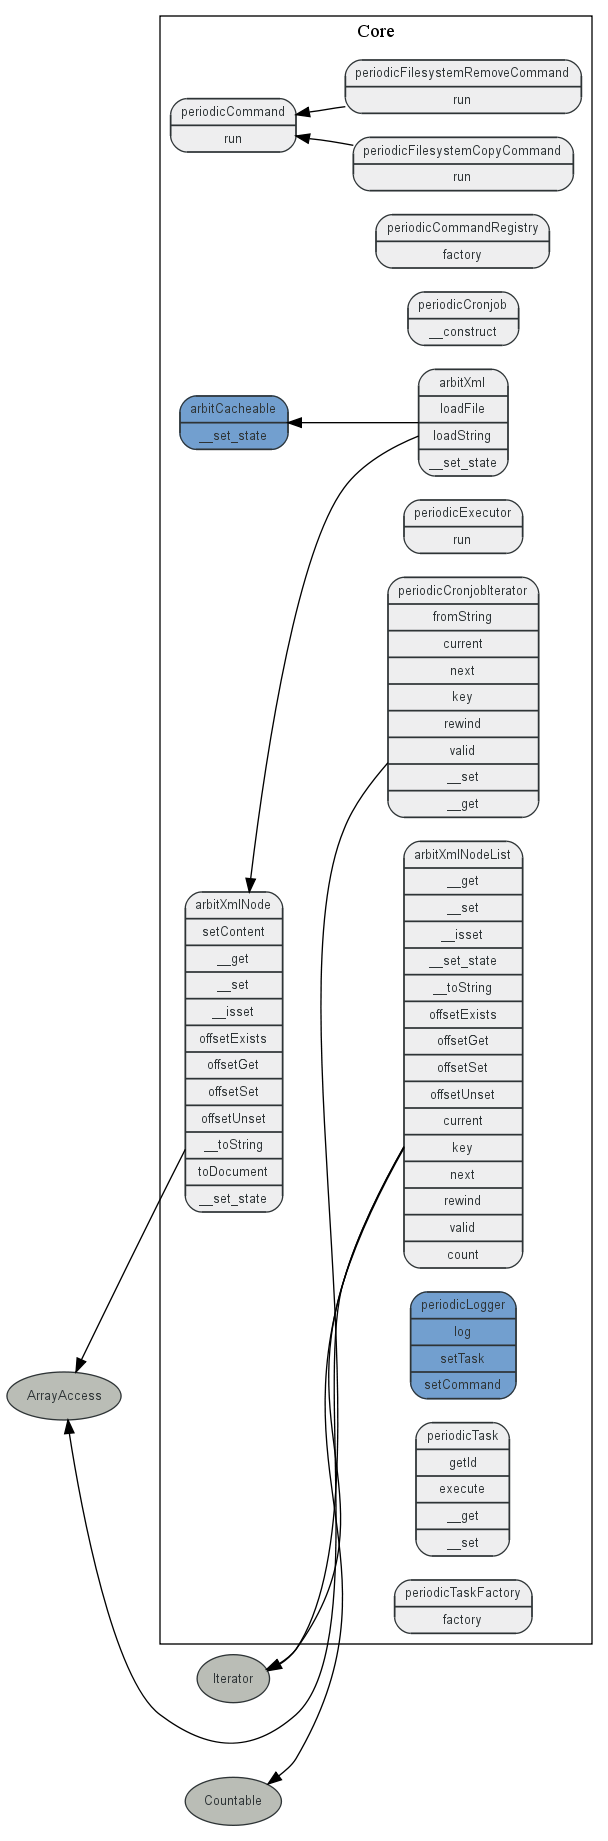
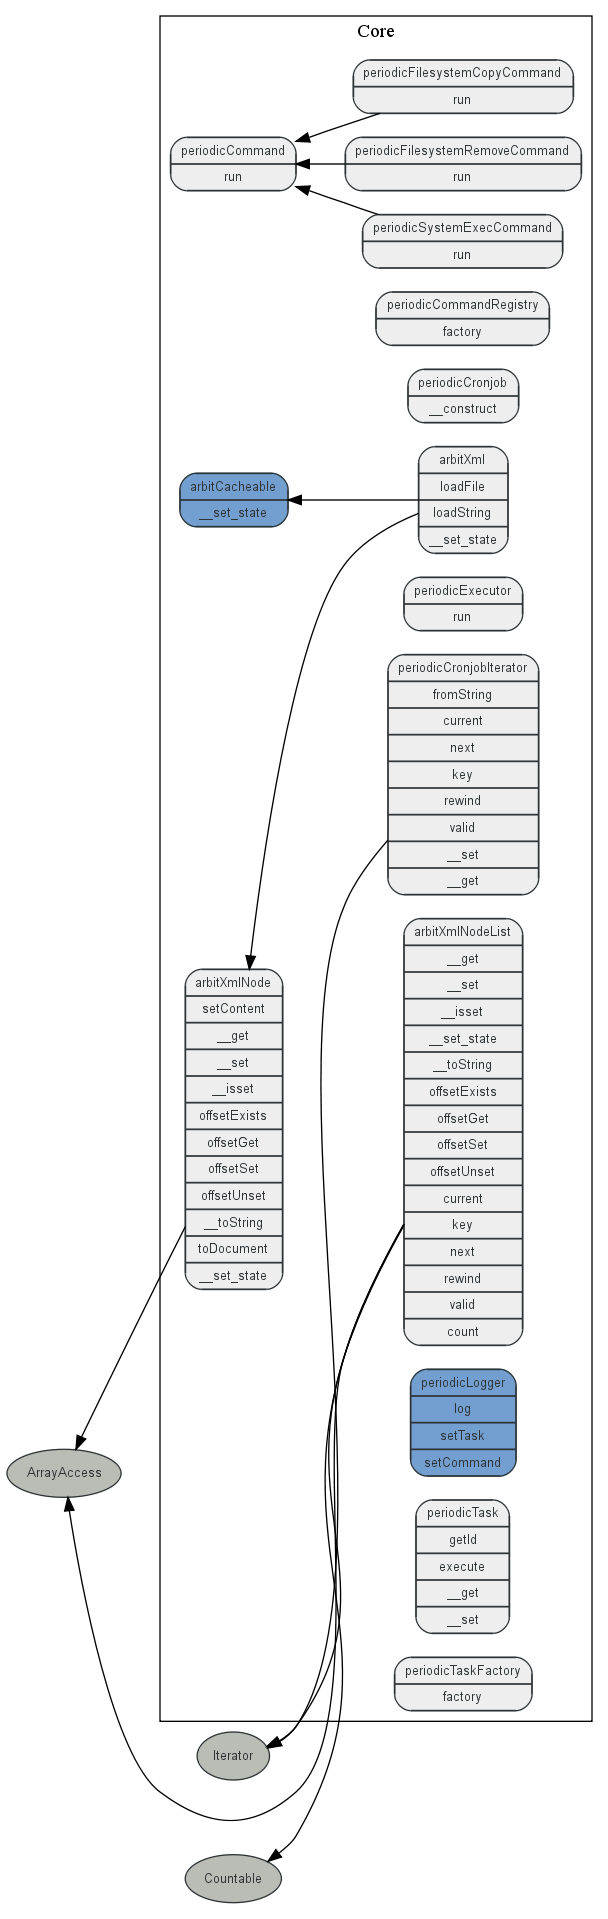
- Implemented: Basic system exec command

diff --git a/src/classes/command/system/exec.php b/src/classes/command/system/exec.php
@@ -1,0 +1,119 @@
+<?php
+/**
+ * Command
+ *
+ * This file is part of periodic
+ *
+ * periodic is free software; you can redistribute it and/or modify it under
+ * the terms of the GNU Lesser General Public License as published by the Free
+ * Software Foundation; version 3 of the License.
+ *
+ * periodic is distributed in the hope that it will be useful, but WITHOUT ANY
+ * WARRANTY; without even the implied warranty of MERCHANTABILITY or FITNESS
+ * FOR A PARTICULAR PURPOSE.  See the GNU Lesser General Public License for
+ * more details.
+ *
+ * You should have received a copy of the GNU Lesser General Public License
+ * along with periodic; if not, write to the Free Software Foundation, Inc., 51
+ * Franklin St, Fifth Floor, Boston, MA  02110-1301  USA
+ *
+ * @package Core
+ * @version $Revision: 999 $
+ * @license http://www.gnu.org/licenses/lgpl-3.0.txt LGPL
+ */
+
+/**
+ * Command
+ *
+ * Command to execute system commands
+ */
+class periodicSystemExecCommand extends periodicCommand
+{
+    /**
+     * Run command
+     *
+     * Execute the actual bits.
+     *
+     * Should return one of the status constant values, defined as class
+     * constants in periodicCommand.
+     * 
+     * @return int
+     */
+    public function run()
+    {
+        $command = (string) $this->configuration;
+        if ( empty( $command ) )
+        {
+            $this->logger->log( 'No command provided for execution.', periodicLogger::ERROR );
+            return periodicExecutor::ERROR;
+        }
+
+        // Check for availability of PHP command execution functions
+        if ( !function_exists( 'proc_open' ) )
+        {
+            $this->logger->log( 'Required PHP functions proc_* not available.', periodicLogger::ERROR );
+            return periodicExecutor::ERROR;
+        }
+
+        $failOnError = true;
+        if ( isset( $this->configuration['failOnError'] ) )
+        {
+            $failOnError = !( (string) $this->configuration['failOnError'] === 'false' );
+        }
+
+        return $this->execute( $command, $failOnError );
+    }
+
+    /**
+     * Execute command
+     *
+     * Execute given shell command. All error output from the shell command
+     * will be added as warnings to the logger.
+     *
+     * If the command returns with an non-zero exit code and $failOnError is
+     * set to true the command will return periodicExecutor::ERROR - otherwise
+     * it will always return with periodicExecutor::SUCCESS.
+     * 
+     * @param string $command 
+     * @param bool $failOnError
+     * @return int
+     */
+    protected function execute( $command, $failOnError = true )
+    {
+        $descriptors = array(
+            0 => array( 'pipe', 'r' ), // STDIN
+            1 => array( 'pipe', 'w' ), // STDOUT
+            2 => array( 'pipe', 'w' ), // STDERR
+        );
+
+        $proc = proc_open( $command, $descriptors, $pipes );
+        if ( !is_resource( $proc ) )
+        {
+            $this->logger->log( 'Could not start processs.', periodicLogger::ERROR );
+            return periodicExecutor::ERROR;
+        }
+
+        // Add command output as information to log
+        $output = trim( stream_get_contents( $pipes[1] ) );
+        if ( !empty( $output ) )
+        {
+            $this->logger->log( $output );
+        }
+        fclose( $pipes[1] );
+
+        // Add command error output as warnings to log
+        $output = trim( stream_get_contents( $pipes[2] ) );
+        if ( !empty( $output ) )
+        {
+            $this->logger->log( $output, periodicLogger::WARNING );
+        }
+        fclose( $pipes[2] );
+
+        // Receive process return values
+        $return = proc_close( $proc );
+        $this->logger->log( "Command exited with return value $return" );
+
+        return ( $return && $failOnError ) ? periodicExecutor::ERROR : periodicExecutor::SUCCESS;
+    }
+}
+

diff --git a/tests/command/system_exec.php b/tests/command/system_exec.php
@@ -1,0 +1,123 @@
+<?php
+/**
+ * This file is part of Periodic.
+ *
+ * Periodic is free software; you can redistribute it and/or modify it under
+ * the terms of the GNU Lesser General Public License as published by the
+ * Free Software Foundation; version 3 of the License.
+ *
+ * Periodic is distributed in the hope that it will be useful, but WITHOUT
+ * ANY WARRANTY; without even the implied warranty of MERCHANTABILITY or
+ * FITNESS FOR A PARTICULAR PURPOSE.  See the GNU Lesser General Public
+ * License for * more details.
+ *
+ * You should have received a copy of the GNU Lesser General Public License 
+ * along with Periodic; if not, write to the Free Software Foundation, Inc., 51
+ * Franklin St, Fifth Floor, Boston, MA  02110-1301  USA
+ *
+ * @package Periodic
+ * @subpackage Command
+ * @version $Revision: 1006 $
+ * @license http://www.gnu.org/licenses/lgpl-3.0.txt LGPLv3
+ */
+
+require_once 'tests/helper/logger.php';
+
+class periodicCommandSystemExecTests extends periodicBaseTest
+{
+    public static function suite()
+    {
+        return new PHPUnit_Framework_TestSuite( __CLASS__ );
+    }
+
+    public function testEmptyConfiguation()
+    {
+        $cmd = new periodicSystemExecCommand(
+            arbitXml::loadString( '<?xml version="1.0" ?>
+                <command/>
+            ' ),
+            $logger = new periodicTestLogger()
+        );
+
+        $this->assertSame(
+            periodicExecutor::ERROR,
+            $cmd->run()
+        );
+
+        $this->assertEquals(
+            array(
+                '(E) No command provided for execution.',
+            ),
+            $logger->logMessages
+        );
+    }
+
+    public function testSuccessfullCommandExecution()
+    {
+        $cmd = new periodicSystemExecCommand(
+            arbitXml::loadString( '<?xml version="1.0" ?>
+                <command>echo "Hello world"</command>
+            ' ),
+            $logger = new periodicTestLogger()
+        );
+
+        $this->assertSame(
+            periodicExecutor::SUCCESS,
+            $cmd->run()
+        );
+
+        $this->assertEquals(
+            array(
+                '(i) Hello world',
+                '(i) Command exited with return value 0',
+            ),
+            $logger->logMessages
+        );
+    }
+
+    public function testFailOnUnknownCommand()
+    {
+        $cmd = new periodicSystemExecCommand(
+            arbitXml::loadString( '<?xml version="1.0" ?>
+                <command>some_command_not_available</command>
+            ' ),
+            $logger = new periodicTestLogger()
+        );
+
+        $this->assertSame(
+            periodicExecutor::ERROR,
+            $cmd->run()
+        );
+
+        $this->assertEquals(
+            array(
+                '(W) sh: some_command_not_available: command not found',
+                '(i) Command exited with return value 127',
+            ),
+            $logger->logMessages
+        );
+    }
+
+    public function testNoFailOnUnknownCommand()
+    {
+        $cmd = new periodicSystemExecCommand(
+            arbitXml::loadString( '<?xml version="1.0" ?>
+                <command failOnError="false">some_command_not_available</command>
+            ' ),
+            $logger = new periodicTestLogger()
+        );
+
+        $this->assertSame(
+            periodicExecutor::SUCCESS,
+            $cmd->run()
+        );
+
+        $this->assertEquals(
+            array(
+                '(W) sh: some_command_not_available: command not found',
+                '(i) Command exited with return value 127',
+            ),
+            $logger->logMessages
+        );
+    }
+}

diff --git a/src/classes/command_registry.php b/src/classes/command_registry.php
@@ -39,10 +39,10 @@ final class periodicCommandRegistry
     protected static $commands = array(
         // Standard file system operations
         'fs.copy'     => 'periodicFilesystemCopyCommand',
-        'fs.move'     => 'periodicFilesystemMoveCommand',
+//        'fs.move'     => 'periodicFilesystemMoveCommand',
         'fs.delete'   => 'periodicFilesystemDeleteCommand',
-        'fs.chown'    => 'periodicFilesystemChownCommand',
-        'fs.chmod'    => 'periodicFilesystemChmodCommand',
+//        'fs.chown'    => 'periodicFilesystemChownCommand',
+//        'fs.chmod'    => 'periodicFilesystemChmodCommand',
 
         // Generic system operations
         'system.exec' => 'periodicSystemExecCommand',

diff --git a/tests/command_suite.php b/tests/command_suite.php
@@ -32,6 +32,7 @@ if ( !defined( 'PERIODIC_TEST' ) )
  */
 require 'command/file_copy.php';
 require 'command/file_remove.php';
+require 'command/system_exec.php';
 
 /**
 * Test suite for Periodic cronjob
@@ -50,6 +51,7 @@ class periodicCommandTestSuite extends PHPUnit_Framework_TestSuite
 
         $this->addTest( periodicCommandFileCopyTests::suite() );
         $this->addTest( periodicCommandFileRemoveTests::suite() );
+        $this->addTest( periodicCommandSystemExecTests::suite() );
     }
 
     /**

diff --git a/src/classes/autoload.php b/src/classes/autoload.php
@@ -32,6 +32,7 @@ return array(
     'periodicCommand'                 => 'command.php',
     'periodicFilesystemCopyCommand'   => 'command/filesystem/copy.php',
     'periodicFilesystemRemoveCommand' => 'command/filesystem/remove.php',
+    'periodicSystemExecCommand'       => 'command/system/exec.php',
     'periodicCommandRegistry'         => 'command_registry.php',
     'periodicCronjob'                 => 'cronjob.php',
     'periodicCronjobIterator'         => 'cronjob_iterator.php',
